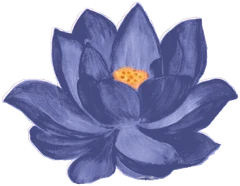
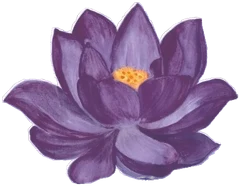
A touch of pink in the blue flowers; no marigold garland on the venue
- Countdown: the wreath's lavender-blue flowers and the wedding day's
  lotus take a little of their original pink back (a soft mauve:
  30% pink in the wreath, 25% in the lotus, whose deep red goes purple
  sooner).
- Couple: the buds hanging from the arch's jasmine strings get the same
  touch of pink (30%).
- Finding Your Way: the marigold garland is gone from the map's arch;
  its two small bells stay, each on a fine gold thread from one of the
  arch's shoulders.

diff --git a/src/components/sections/Venue.tsx b/src/components/sections/Venue.tsx
@@ -16,7 +16,7 @@ import { SectionHeading } from "@/components/ui/SectionHeading";
  * Shiv–Parvati key — cream cards on the pale sky, navy words, gold capitals, Cormorant headings.
  *
  * The venue: a cream card, a faint Kailash range along its top edge; the map cut into a temple arch
- * with a fine gold edge, a marigold garland and two small bells across its top, a gold lotus pin on
+ * with a fine gold edge, a small bell hanging from each shoulder, a gold lotus pin on
  * the place and a small gold "Maps" pill; then the venue's name, a small gold lotus rule, its
  * address and the date in gold capitals, and "Get Directions" (navy, a gold edge, a small lotus; a
  * soft ripple where it is pressed).
@@ -90,7 +90,7 @@ export function Venue() {
               <svg aria-hidden viewBox="0 0 100 115" preserveAspectRatio="none" className="fw-arch-line">
                 <path d={ARCH_PATH} vectorEffect="non-scaling-stroke" />
               </svg>
-              <Garland />
+              <ArchBells />
             </div>
             <h3 id="venue-name" className="mt-5 text-[28px] leading-tight">
               {venue.name}
@@ -273,49 +273,16 @@ function Kailash() {
   );
 }
 
-/** Marigold garland swagged across the arch's top, three short strands, a small bell at each shoulder. */
-function Garland() {
-  const blooms: string[] = [];
-  const swag = (x: number) => 12 + 22 * Math.sin((Math.PI * (x - 14)) / 272);
-  for (let x = 14; x <= 286; x += 11) blooms.push(`${x},${swag(x).toFixed(1)}`);
-  const strands = [70, 150, 230];
+/** Two small temple bells, each on a fine gold thread from one of the arch's shoulders. */
+function ArchBells() {
   return (
-    <svg aria-hidden viewBox="0 0 300 90" className="fw-garland">
-      <defs>
-        <radialGradient id="fw-marigold" cx="40%" cy="35%" r="65%">
-          <stop offset="0" stopColor="#ffd36b" />
-          <stop offset="0.55" stopColor="#f7a12a" />
-          <stop offset="1" stopColor="#d9731a" />
-        </radialGradient>
-      </defs>
-      <path d={`M14 ${swag(14)} ${blooms.map((b) => `L${b.replace(",", " ")}`).join(" ")}`} fill="none" stroke="#9c6b2f" strokeWidth="0.8" />
-      {strands.map((sx) => {
-        const y0 = swag(sx);
-        return (
-          <g key={sx}>
-            <path d={`M${sx} ${y0}V${y0 + 30}`} stroke="#9c6b2f" strokeWidth="0.7" />
-            {[10, 19, 28].map((dy) => (
-              <circle key={dy} cx={sx} cy={y0 + dy} r={dy === 28 ? 3.4 : 4.2} fill="url(#fw-marigold)" stroke="#c4661a" strokeWidth="0.4" />
-            ))}
-          </g>
-        );
-      })}
-      {blooms.map((b) => {
-        const [x, y] = b.split(",").map(Number);
-        return (
-          <g key={b}>
-            <circle cx={x} cy={y} r="6" fill="url(#fw-marigold)" stroke="#c4661a" strokeWidth="0.5" />
-            <circle cx={x} cy={y} r="2.6" fill="none" stroke="#e08a22" strokeWidth="0.6" opacity="0.8" />
-          </g>
-        );
-      })}
-      {[22, 278].map((bx) => (
-        <g key={bx}>
-          <path d={`M${bx} ${swag(bx)}V${swag(bx) + 14}`} stroke="#b89554" strokeWidth="0.8" />
-          <image href="/art/couple-bell-1.webp" x={bx - 6} y={swag(bx) + 12} width="12" height="19" />
-        </g>
+    <>
+      {(["left", "right"] as const).map((side) => (
+        <span key={side} aria-hidden className="fw-bell" style={{ [side]: "13%" }}>
+          <img src="/art/couple-bell-1.webp" alt="" width={13} height={20} draggable={false} />
+        </span>
       ))}
-    </svg>
+    </>
   );
 }
 

diff --git a/src/index.css b/src/index.css
@@ -1519,7 +1519,7 @@
     height: 64px;
     pointer-events: none;
   }
-  /* the map, cut into a temple arch with a fine gold edge; a marigold garland and bells across it */
+  /* the map, cut into a temple arch with a fine gold edge; a small bell from each shoulder */
   .fw-map-wrap {
     position: relative;
     margin: 34px 4px 0;
@@ -1545,15 +1545,32 @@
     stroke: #b89554;
     stroke-width: 1.5;
   }
-  .fw-garland {
+  /* a small bell on a fine gold thread from each of the arch's shoulders */
+  .fw-bell {
     position: absolute;
-    left: 6%;
-    top: 4%;
-    width: 88%;
-    height: auto;
-    overflow: visible;
+    top: 15.5%;
+    z-index: 1;
+    display: flex;
+    flex-direction: column;
+    align-items: center;
+    width: 13px;
+    height: 46px;
+    margin-left: -6px;
+    margin-right: -6px;
     pointer-events: none;
-    filter: drop-shadow(0 2px 2px rgb(120 70 20 / 0.25));
+  }
+  .fw-bell::before {
+    content: "";
+    flex: 1;
+    width: 1px;
+    margin-bottom: -2px;
+    background: rgb(184 149 84 / 0.9);
+  }
+  .fw-bell img {
+    display: block;
+    width: 13px;
+    height: auto;
+    filter: drop-shadow(0 2px 2px rgb(18 41 74 / 0.3));
   }
   .fw-pin {
     position: absolute;

diff --git a/README.md b/README.md
@@ -121,7 +121,7 @@ Each section has its own composition, and each hands over to the next.
 | 07 | Gallery | A heart-shaped collage under "Moments to Remember", "Our Gallery" and the quote (26px below it): 14 photos of different sizes (5 of the 9 twice, once as a close-up) with the same thin antique-gold gap between all of them and round the edge (0.9cqw), clipped to the heart curve on a gilded mount with a faint, soft shadow, 20px from the screen's edges (up to 440px), sized in its own width units so a real phone and the desktop's phone match. Seen the first time, the tiles fly in from random edges (turned up to ±15°, 70ms apart, a little spring, ~1.4s); then the heart beats now and then, barely (a soft double beat to 1.012, every 3.2s). 3D: 900px perspective, each tile lifted 0–40px by its size (large back, small front) and drawn back to its place at rest; it tilts up to ±8° with the gyroscope (Android at once; an iPhone asks on the first tap, and until allowed — or if refused — a sideways drag tilts it), or toward the mouse in the desktop's phone. A tap opens a lightbox: the whole photo grows out of its tile onto a night-blue veil, with its caption and ‹ 2 / 9 › — a swipe sideways, the arrows or the arrow keys go through all nine photos once each; a swipe down, ×, a tap on the veil or Escape closes it back into a tile showing it (focus and scroll position kept). "Tap a photo" shows until the first tap. With more photos than tiles, every 3s one tile turns over (rotateY 180°) to one not shown — one at a time, not while the lightbox is open or the heart is tilting. Thumbnails lazy-load; the full photo loads in the lightbox. Transform and opacity (a filter for the shadows). Reduced motion or a slow phone: no tilt, turning or beat; tiles fade in where they are; the lightbox fades. |
 | 08 | RSVP | On the page's own sky, as every section (no card). A gold trishul and fine rule at the top, temple bells hanging alike from the upper corners; first the invitation — "A Sacred Celebration", one line and one deep-navy button with a gold edge (as the Blessing Wall's), "JOIN THE CELEBRATION →" (the arrow steps on when pointed at). Tapped (once; more taps are ignored), the acceptance is sent (saved to the family's database when there is one); only when that succeeds does the invitation fade and "The Sacred Union" open in its place (a failure keeps the button, with the reason): a temple arch in thin antique-gold lines draws itself (pillars rising, the arch meeting at its peak, a kalash, one gleam), Mahadev holding Maa Parvati close (the couple's chosen painting, `assets.rsvpCouple`, cut out of its red ground) appears within it from 97% with a soft warm light behind, their feet melting into the sky; then "A Sacred Celebration", the blessing and "Har Har Mahadev" (`rsvp.*`), a navy "Add to calendar" button (Google Calendar or an .ics file of `wedding.dateTime` at the venue — saying exactly what happened, never that the date is saved) and an honest saved-where note. Nothing is remembered on the phone: every visit, a reload too, starts with the button. Then all is still. Reduced motion: plain fades. |
 | 09 | Blessing Wall | Laid out like a page of an old wedding manuscript: "With Love and Blessings", "Blessing Wall", its line and a small gold lotus rule; one blessing at the centre on a warm-ivory, faintly textured leaf with small gold corner ornaments, an oversized opening quotation mark, italic serif words and the sender in small gold capitals; two beneath it, unboxed, side by side and slightly staggered, a fine gold line between them; "View all wishes →" (a fine gold underline that fills on hover, the arrow stepping on) opens them all in the sheet. "Leave a Blessing" follows on the page itself (no card): a small gold lotus, the heading, a clean box with a fine gold edge (gold-ink when writing, red when amiss, with its placeholder, counter and who it is signed by) and a navy "SEND YOUR BLESSING →" with a gold edge. Wishes are cleaned and checked; only once one is saved does the form give way to its confirmation (a gold lotus drawing itself, "Your blessing has found its place.", where it was kept) and the new blessing takes the centre of the wall; a failure keeps the words. "Leave another blessing" brings the form back. Reduced motion: plain fades. |
-| 10 | Finding Your Way | In the Shiv–Parvati key: cream cards on the pale sky, navy words, gold capitals. The venue card has a faint Kailash range along its top edge; the map is cut into a temple arch with a fine gold edge, a marigold garland and two small bells across its top, a gold lotus pin on the place and a small gold "Maps" pill; then the name, a small gold lotus rule, the address, the date in gold capitals and "Get Directions" (navy, gold edge, a small lotus, a soft ripple where pressed). How to Reach: three stops (by air, rail, road — `travel.points`, each with distance and time on one line) on a thin wavy Ganga-blue line with a small lotus at each; a tap opens or closes a stop's detail; a tip chip says pickup details come on WhatsApp. Blessed Stays (a small bilva leaf): cards to swipe across (no scrollbar) — a photo in an arch (or a soft painted one), name, distance, a line, Call (when there is a number) and Map; the first stay the family hosts is marked "Hosted by family" in a gold edge. Then the point of contact with WhatsApp (when there is a number). Cards rise in as they are reached and the lotus nodes open one after another. Buttons are at least 48px tall. All of it is SAMPLE in `travel` until checked. |
+| 10 | Finding Your Way | In the Shiv–Parvati key: cream cards on the pale sky, navy words, gold capitals. The venue card has a faint Kailash range along its top edge; the map is cut into a temple arch with a fine gold edge, a small bell hanging from each shoulder, a gold lotus pin on the place and a small gold "Maps" pill; then the name, a small gold lotus rule, the address, the date in gold capitals and "Get Directions" (navy, gold edge, a small lotus, a soft ripple where pressed). How to Reach: three stops (by air, rail, road — `travel.points`, each with distance and time on one line) on a thin wavy Ganga-blue line with a small lotus at each; a tap opens or closes a stop's detail; a tip chip says pickup details come on WhatsApp. Blessed Stays (a small bilva leaf): cards to swipe across (no scrollbar) — a photo in an arch (or a soft painted one), name, distance, a line, Call (when there is a number) and Map; the first stay the family hosts is marked "Hosted by family" in a gold edge. Then the point of contact with WhatsApp (when there is a number). Cards rise in as they are reached and the lotus nodes open one after another. Buttons are at least 48px tall. All of it is SAMPLE in `travel` until checked. |
 | 11 | Thank You | A gold halo draws slowly around Shiv–Parvati, with ॐ नमः शिवाय. |
 | 12 | Love Note | An envelope opens and the note rises. |
 
